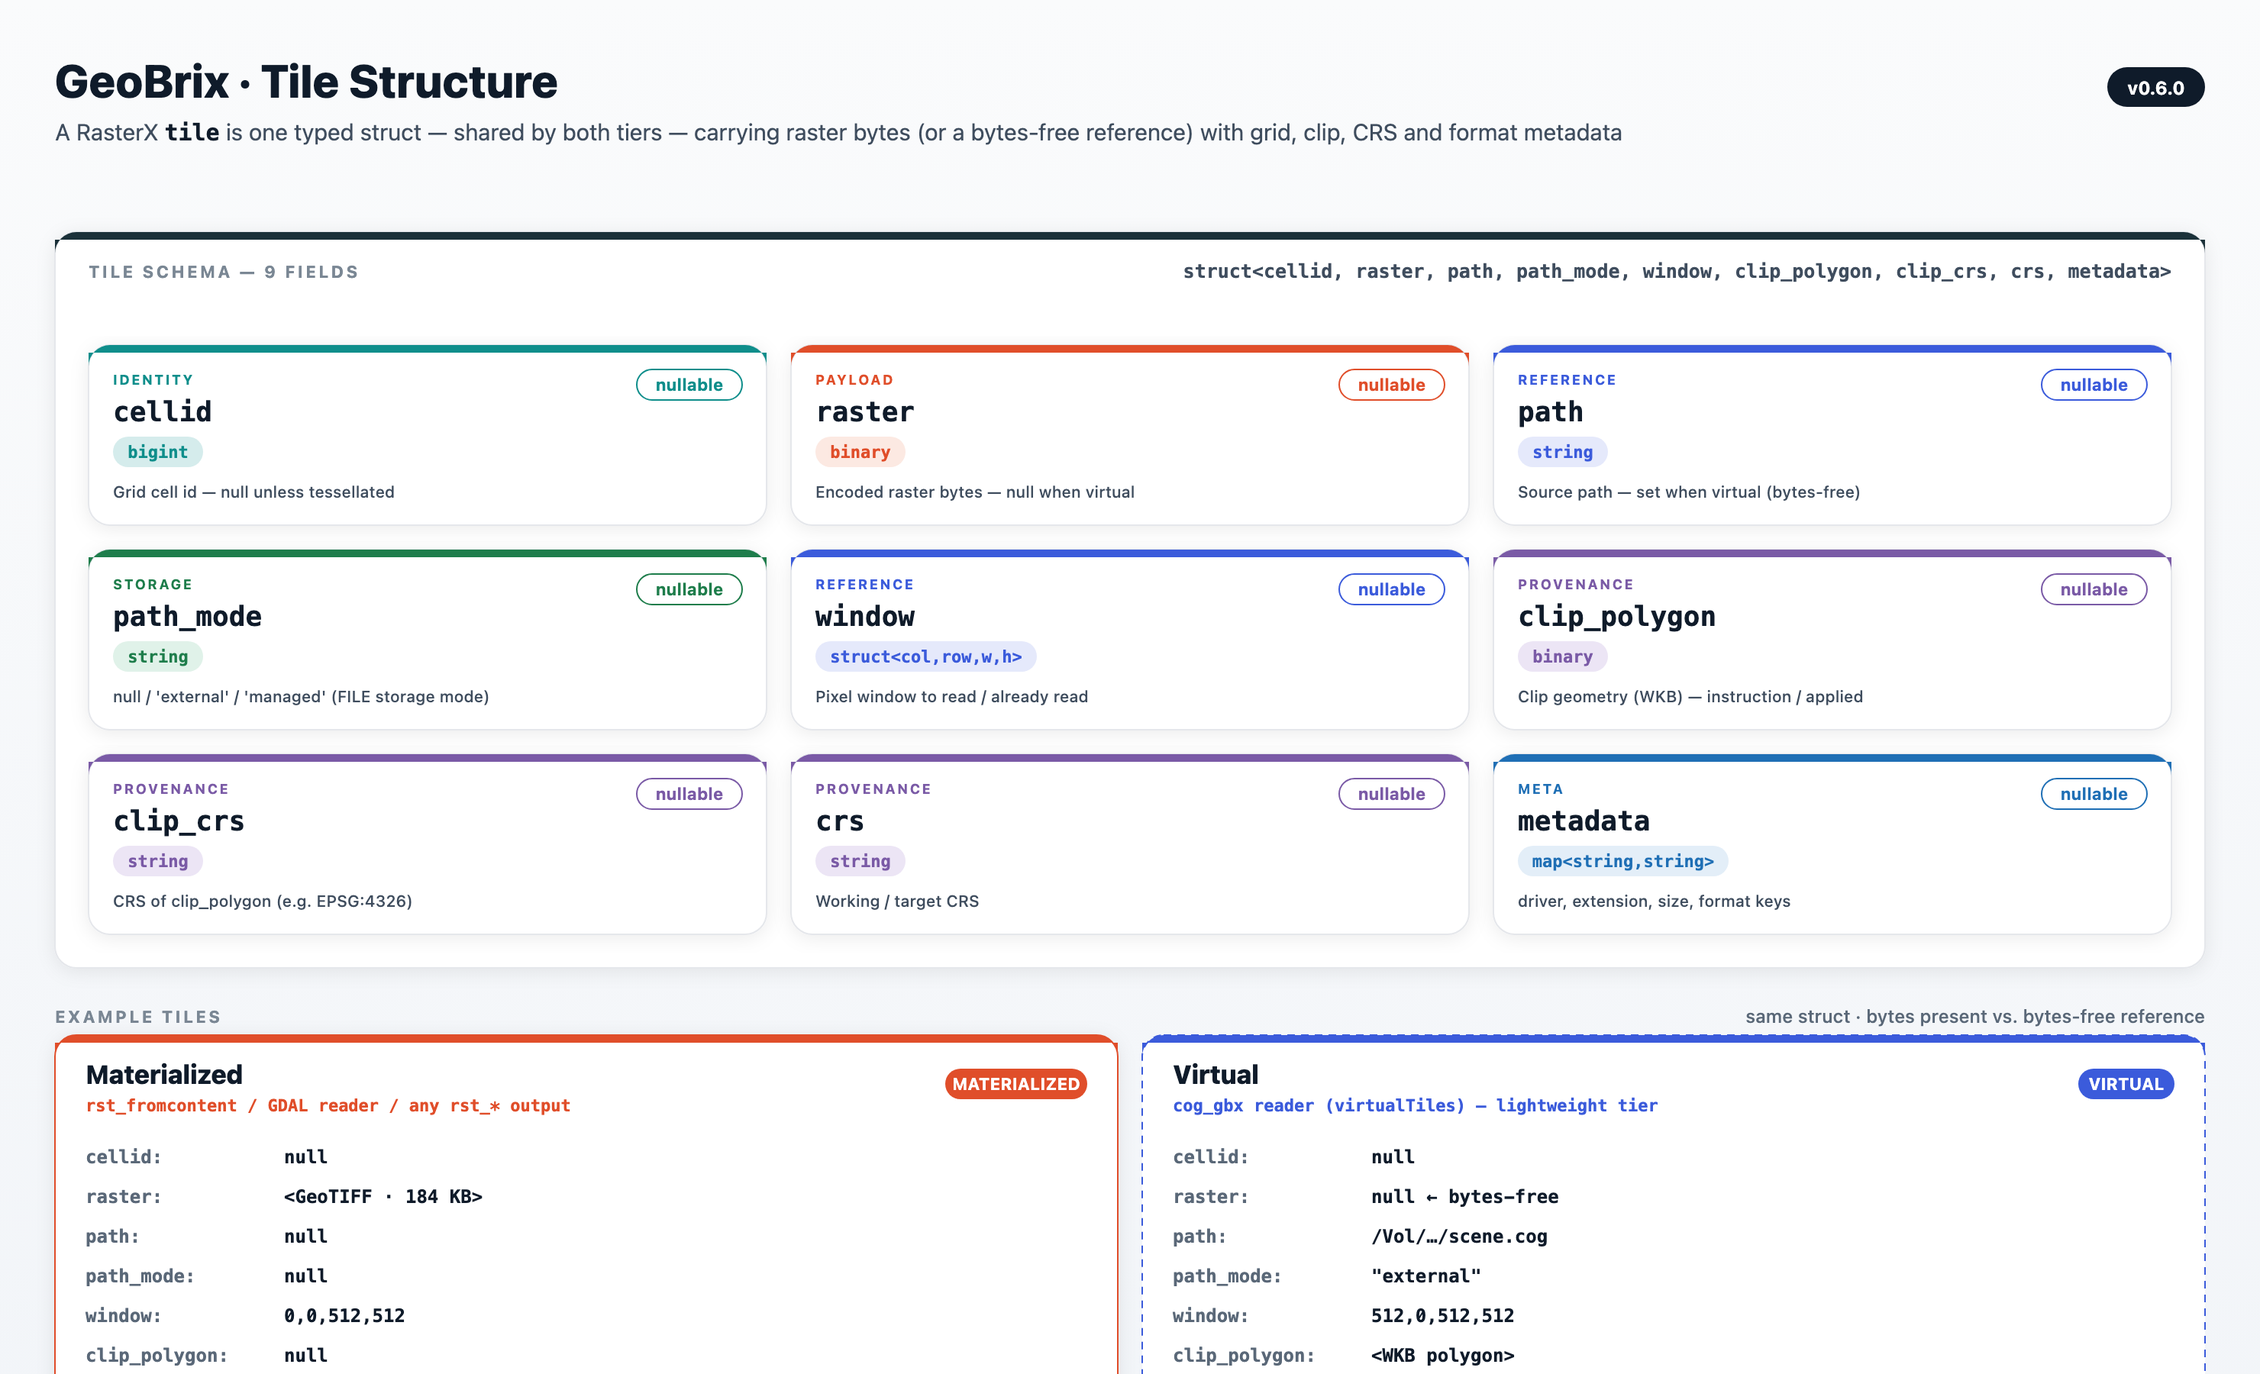
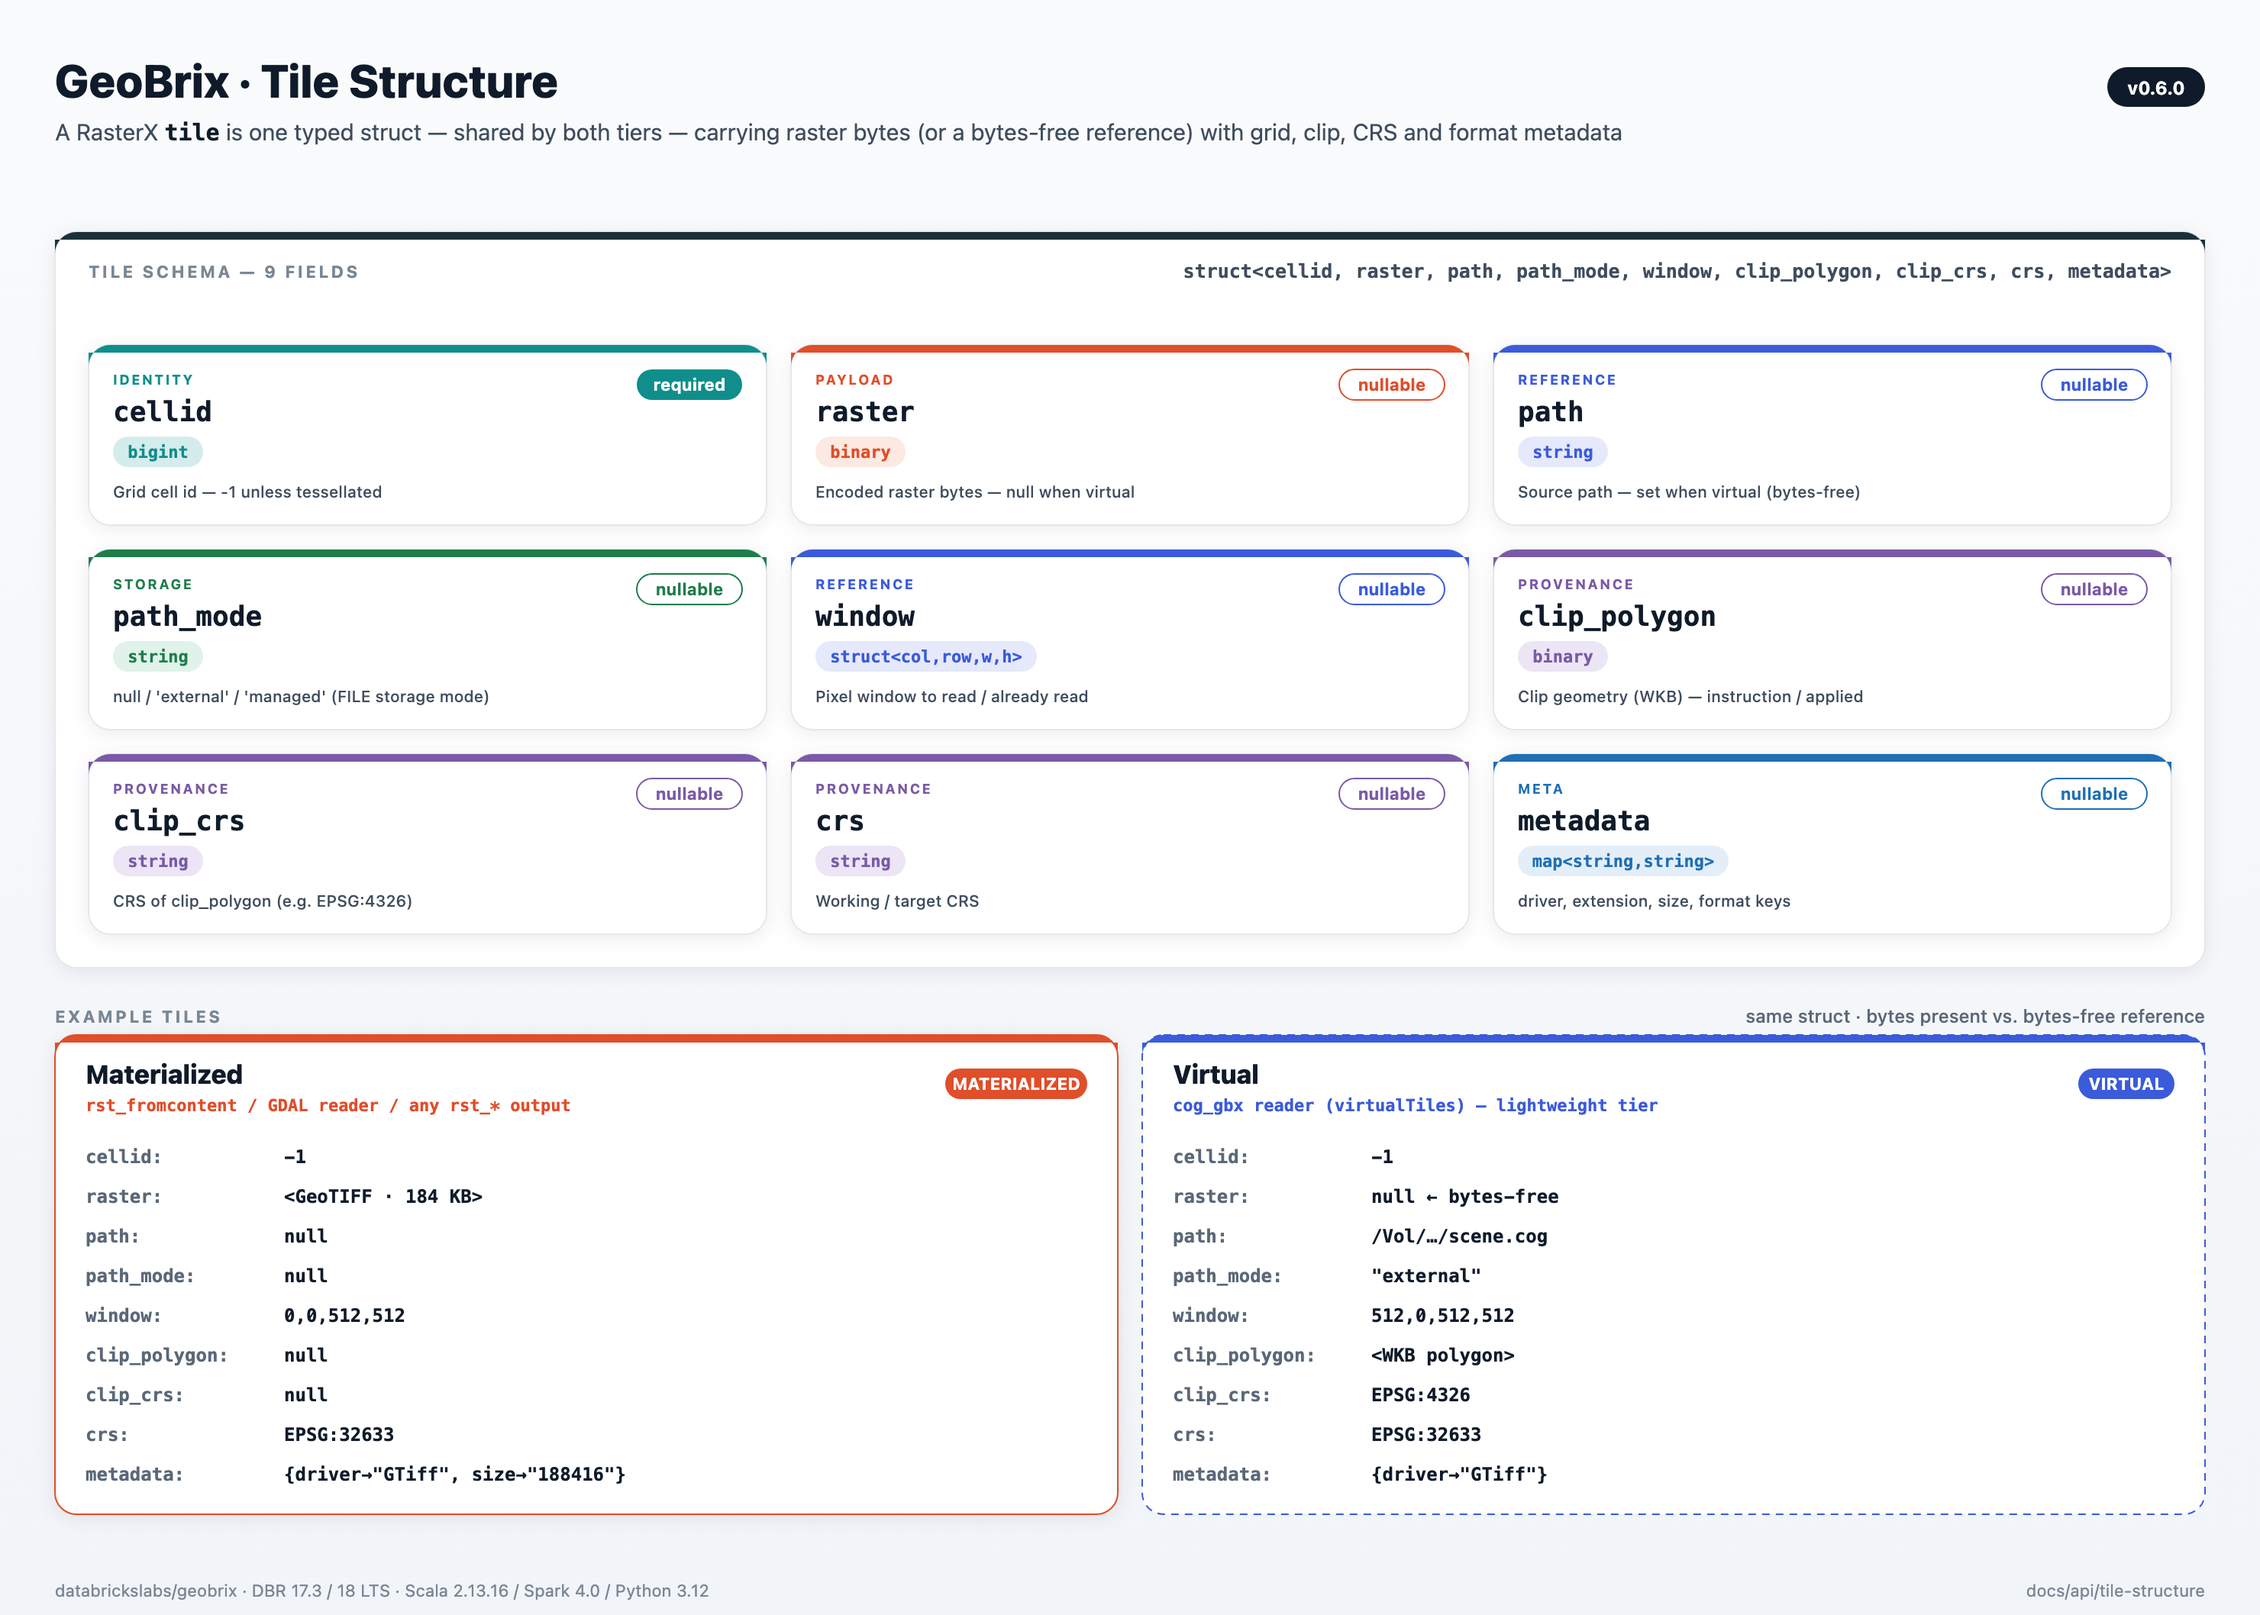
docs(rasterx): cellid is -1 for a tile that was not tessellated
The tile schema declares cellid as a non-null bigint and the readers write -1 (CELLID_FRESH) for an untessellated tile, but the tile pages and the diagram said null and nullable. The docs, the doc-test outputs and the diagram now state -1, and the doc test asserts it on raster_gbx.

diff --git a/docs/tests/python/api/tile_structure.py b/docs/tests/python/api/tile_structure.py
@@ -28,11 +28,11 @@ except ImportError:
 
 
 # SQL constant for cellid example (use your sample raster path)
-SQL_CELLID_NON_TESSELLATED = f"""-- Non-tessellated: cellid is null
+SQL_CELLID_NON_TESSELLATED = f"""-- Non-tessellated: cellid is -1
 CREATE OR REPLACE TEMP VIEW nyc_raster USING raster_gbx OPTIONS (path '{SAMPLE_NYC_RASTER}');
 SELECT tile.cellid
 FROM nyc_raster;
--- Returns: null"""
+-- Returns: -1"""
 
 SQL_CELLID_TESSELLATED = f"""-- Tessellated: cellid contains H3 cell ID
 CREATE OR REPLACE TEMP VIEW nyc_raster USING raster_gbx OPTIONS (path '{SAMPLE_NYC_RASTER}');
@@ -277,7 +277,7 @@ def non_tessellated_tiles(spark):
     df = spark.read.format("raster_gbx").option("virtualTiles", "false").load(SAMPLE_NYC_RASTER)
     
     df.select(
-        f.col("tile.cellid"),      # null
+        f.col("tile.cellid"),      # -1 (not tessellated)
         f.col("tile.raster"),      # binary data
         f.col("tile.metadata")     # {driver: "GTiff", ...}
     ).show()
@@ -435,11 +435,11 @@ def troubleshooting_inspect_raster_field(spark):
 
 
 def troubleshooting_null_cellid(spark):
-    """Troubleshooting: NullPointerException on cellid."""
+    """Troubleshooting: tiles that were not tessellated carry cellid -1, not NULL."""
     df = spark.read.format("raster_gbx").load(SAMPLE_NYC_RASTERS)
     
     # Filter out non-tessellated tiles
-    tessellated_only = df.filter(f.col("tile.cellid").isNotNull())
+    tessellated_only = dX
     return tessellated_only
 
 
@@ -451,7 +451,7 @@ SQL_CELLID_NON_TESSELLATED_output = """
 +------+
 |cellid|
 +------+
-|null  |
+|-1    |
 +------+
 """
 
@@ -508,7 +508,7 @@ accessing_tile_fields_python_output = """
 +------+--------+------------------+-------+
 |cellid|raster  |metadata          |driver |
 +------+--------+------------------+-------+
-|null  |[BINARY]|{driver=GTiff,...}|GTiff  |
+|-1    |[BINARY]|{driver=GTiff,...}|GTiff  |
 +------+--------+------------------+-------+
 """
 
@@ -516,7 +516,7 @@ SQL_ACCESSING_TILE_FIELDS_output = """
 +------+--------+------------------+-------+
 |cellid|raster  |metadata          |driver |
 +------+--------+------------------+-------+
-|null  |[BINARY]|{driver=GTiff,...}|GTiff  |
+|-1    |[BINARY]|{driver=GTiff,...}|GTiff  |
 +------+--------+------------------+-------+
 """
 
@@ -560,7 +560,7 @@ non_tessellated_tiles_output = """
 +----+--------+------------------+
 |cellid|raster |metadata         |
 +----+--------+------------------+
-|null|[BINARY]|{driver=GTiff,...}|
+|-1  |[BINARY]|{driver=GTiff,...}|
 +----+--------+------------------+
 """
 

diff --git a/resources/images/generators/rasterx-tile-structure.py b/resources/images/generators/rasterx-tile-structure.py
@@ -59,8 +59,8 @@ class Field:
     tint: str
 
 FIELDS = [
-    Field("cellid", "bigint", True, "IDENTITY",
-          "Grid cell id — null unless tessellated", A_IDENT, T_IDENT),
+    Field("cellid", "bigint", False, "IDENTITY",
+          "Grid cell id — -1 unless tessellated", A_IDENT, T_IDENT),
     Field("raster", "binary", True, "PAYLOAD",
           "Encoded raster bytes — null when virtual", A_RASTER, T_RASTER),
     Field("path", "string", True, "REFERENCE",
@@ -81,7 +81,7 @@ FIELDS = [
 
 # Example tiles: materialized vs virtual
 MATERIALIZED_EXAMPLE = [
-    ("cellid", "null"),
+    ("cellid", "-1"),
     ("raster", "<GeoTIFF · 184 KB>"),
     ("path", "null"),
     ("path_mode", "null"),
@@ -92,7 +92,7 @@ MATERIALIZED_EXAMPLE = [
     ("metadata", '{driver→"GTiff", size→"188416"}'),
 ]
 VIRTUAL_EXAMPLE = [
-    ("cellid", "null"),
+    ("cellid", "-1"),
     ("raster", "null            ← bytes-free"),
     ("path", "/Vol/…/scene.cog"),
     ("path_mode", '"external"'),

diff --git a/docs/tests/python/api/test_tile_structure.py b/docs/tests/python/api/test_tile_structure.py
@@ -100,9 +100,10 @@ def test_comparing_fromfile_vs_fromcontent_tiles(spark):
 def test_non_tessellated_tiles(spark):
     """The tiles carry the raster bytes the example selects."""
     df = tile_structure.non_tessellated_tiles(spark)
-    rows = df.select("tile.raster").collect()
+    rows = df.select("tile.raster", "tile.cellid").collect()
     assert rows
     assert all(r["raster"] is not None and len(r["raster"]) > 0 for r in rows)
+    assert all(r["cellid"] == -1 for r in rows)  # the documented value of a tile that was not tessellated
 
 
 def test_tessellated_tiles(spark):
